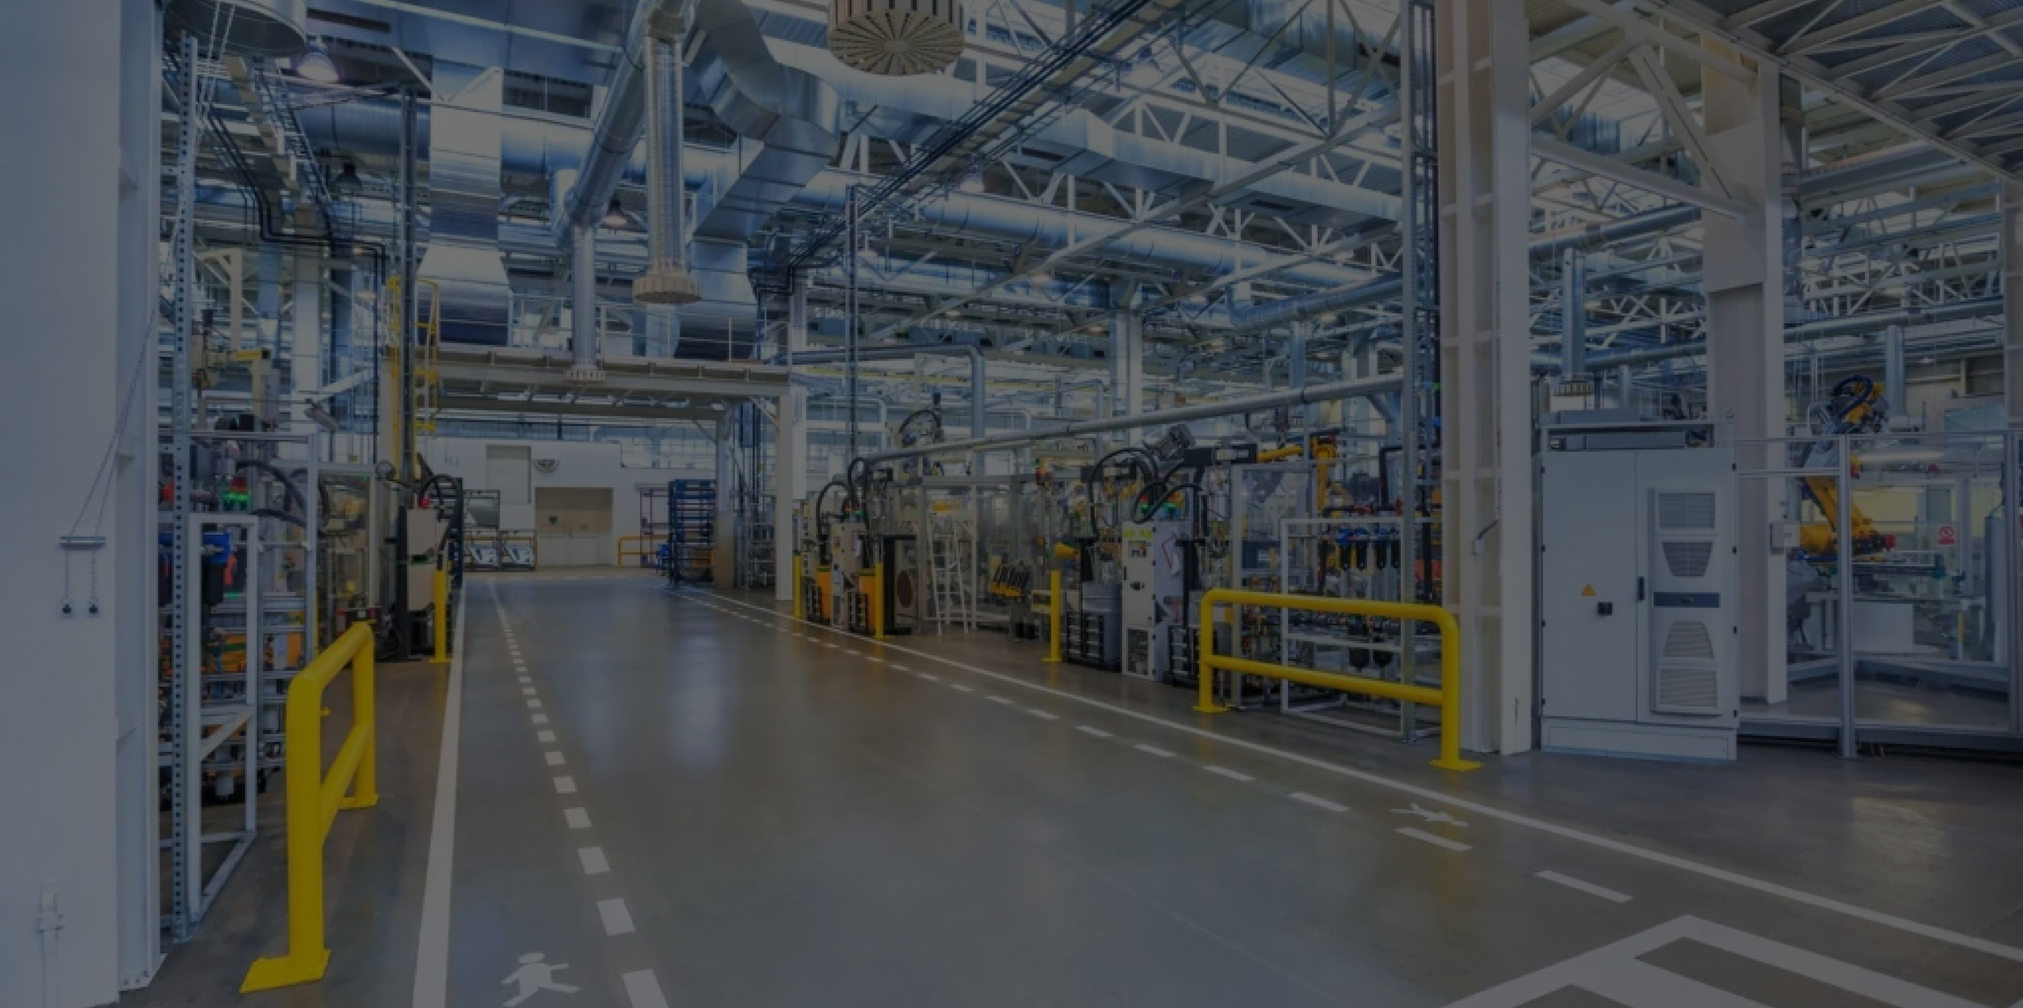
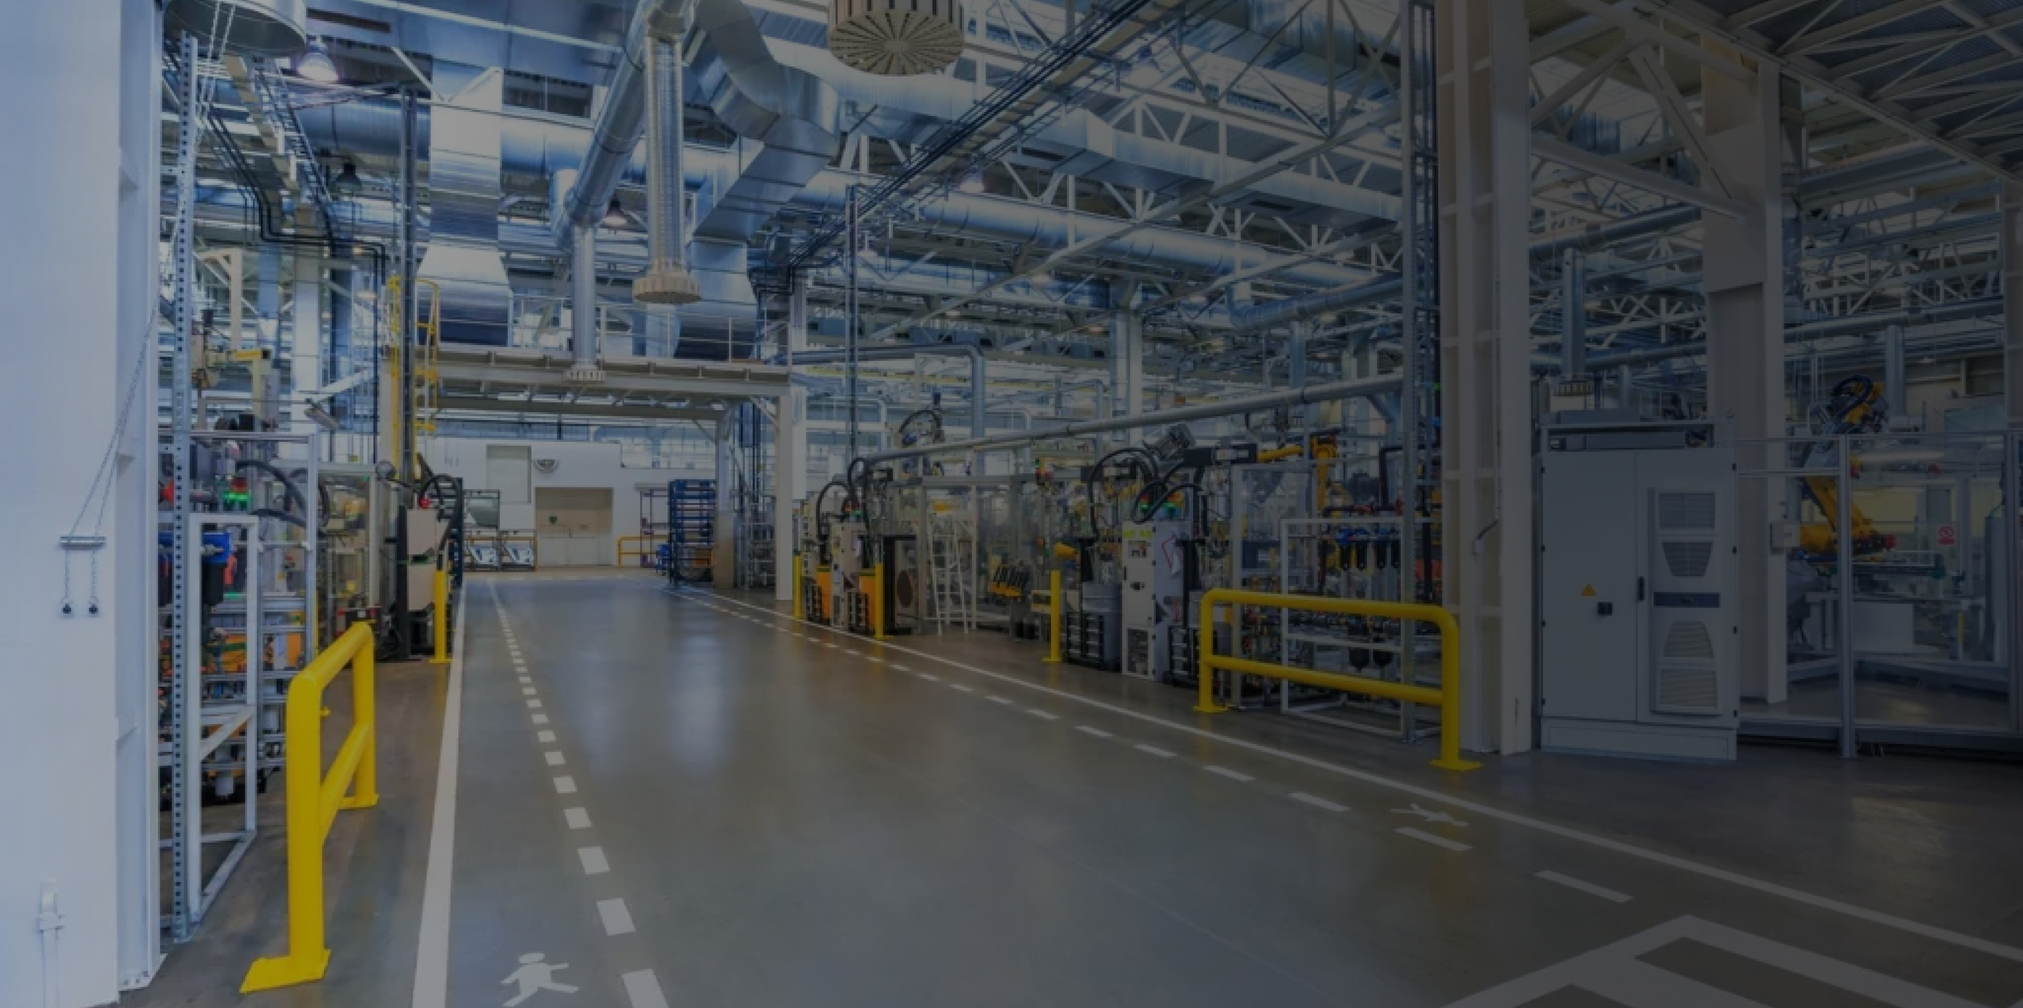
Product engineering services converted in to dynamic code, Our Product Engineering Capabilities section set as per discussed

diff --git a/src/components/_home/ServicesSwiperSlider.tsx b/src/components/_home/ServicesSwiperSlider.tsx
@@ -2,64 +2,76 @@
 import { useState, useEffect } from "react";
 import { useMediaQuery } from "react-responsive";
 // images
-import slideOneDesktop from "@/src/assets/images/service-one.jpg";
-import slideTwoDesktop from "@/src/assets/images/service-three.jpg";
-import slideThreeDesktop from "@/src/assets/images/service-two.jpg";
-
-import slideOneMobile from "@/src/assets/images/service-mob-one.jpg";
-import slideTwoMobile from "@/src/assets/images/service-mob-two.jpg";
-import slideThreeMobile from "@/src/assets/images/service-mob-three.jpg";
+import slideOneDesktop from "@/src/assets/images/machine-controller.png";
+import slideTwoDesktop from "@/src/assets/images/custom-instruments-electronics.png";
+import slideThreeDesktop from "@/src/assets/images/industrial-wireless-communication.png";
 
 import Image from "next/image";
 
 const desktopImages = [
-  { slideImg: slideOneDesktop },
-  { slideImg: slideTwoDesktop },
-  { slideImg: slideThreeDesktop },
-];
-
-const mobileImages = [
-  { slideImg: slideOneMobile },
-  { slideImg: slideTwoMobile },
-  { slideImg: slideThreeMobile },
+  {
+    slideImg: slideOneDesktop,
+    slideTitle: <>Custom embedded <br/>machine controllers</>,
+    slidePoints: [
+      { listPoint: <>Parameter Measurement</> },
+      { listPoint: <>Data Logging</> },
+      { listPoint: <>M2M Communication</> },
+      { listPoint: <>Actuation Control</> },
+      { listPoint: <>Sensor Interfacing</> },
+      { listPoint: <>SCADA Integration</> },
+    ]
+  },
+  {
+    slideImg: slideTwoDesktop,
+    slideTitle: <>Custom <br/>Instrumentation <br/>Electronics</>,
+    slidePoints: [
+      { listPoint: <>Cellular & Cloud Connectivity </> },
+      { listPoint: <>Star, P2P & Mesh<br/>Networking</> },
+      { listPoint: <>SubGHz Medium to Long <br/>Range Communication</> },
+      { listPoint: <>IoT Connectivity<br />Signal Processing</> },
+    ]
+  },
+  {
+    slideImg: slideThreeDesktop,
+    slideTitle: <>Industrial IOT & Wireless <br/>Communication <br/>equipment</>,
+    slidePoints: [
+      { listPoint: <>User-Machine and<br />Peripherals Interfacing</> },
+      { listPoint: <>Data Logging</> },
+      { listPoint: <>On-board Processing</> },
+      { listPoint: <>IoT Connectivity<br />Signal Processing</> },
+    ]
+  },
 ];
 
 export default function CircularSlider() {
   const [activeIndex, setActiveIndex] = useState(0);
-  const [isClient, setIsClient] = useState(false);
-
-  useEffect(() => {
-    setIsClient(true);
-  }, []);
-
-  const isMobile = useMediaQuery({ query: "(max-width: 767px)" });
-
-  const images = isClient && isMobile ? mobileImages : desktopImages;
-
+  
+  // Automatically change the active slide every 4 seconds
   useEffect(() => {
     const interval = setInterval(() => {
-      setActiveIndex((prevIndex) => (prevIndex + 1) % images.length);
+      setActiveIndex((prevIndex) => (prevIndex + 1) % desktopImages.length);
     }, 4000);
-
+    
     return () => clearInterval(interval);
-  }, [images.length]);
+  }, []);
 
+  // Handle manual navigation through dots
   const handleDotClick = (index: number) => {
     setActiveIndex(index);
   };
 
   return (
-    <div className="flex flex-col justify-center items-center relative w-full m-auto overflow-hidden 2xl:h-[590px] xl:h-[445px] lg:h-[397px] md:h-[330px] sm:h-[870px] max-[639px]:h-[560px] max-[450px]:h-[410px]">
-      <div className={`relative flex w-full h-full`}>
-        {images.map((image, index) => {
-          const position =
-            (index - activeIndex + images.length) % images.length;
+    <div className="flex flex-col justify-center items-center relative w-full m-auto overflow-hidden 2xl:h-[590px] xl:h-[510px] lg:h-[415px] md:h-[375px] sm:h-[780px] max-[639px]:h-[630px]">
+      <div className="relative flex w-full h-full">
+        {desktopImages.map((image, index) => {
+         const position =
+            (index - activeIndex + desktopImages.length) % desktopImages.length;
 
           let style: React.CSSProperties = {
             left: "50%",
             transform: "translateX(-50%)",
           };
-
+          
           if (position === 0) {
             style = {
               left: "50%",
@@ -74,7 +86,7 @@ export default function CircularSlider() {
               filter: "blur(7.7px)",
               zIndex: 5,
             };
-          } else if (position === images.length - 1) {
+          } else if (position === desktopImages.length - 1) {
             style = {
               left: "0%",
               transform: "translateX(-8%) scale(0.8)",
@@ -91,25 +103,33 @@ export default function CircularSlider() {
           }
 
           return (
-            <div key={index}>
-              <Image
-                src={image.slideImg}
-                alt={`Slide ${index + 1}`}
-                className="absolute transition-all duration-500 2xl:rounded-[24px] xl:rounded-[18px] md:rounded-[16px] rounded-[18.45px] 2xl:max-w-[1085px] xl:max-w-[815px] lg:max-w-[725px] md:max-w-[615px] sm:max-w-[505px] max-[639px]:max-w-[320px] max-[450px]:max-w-[230px]"
-                style={style}
-                onClick={() => handleDotClick(index)}
-              />
+            <div key={index} style={style} className="absolute transition-all duration-500 2xl:max-w-[1085px] xl:max-w-[815px] lg:max-w-[725px] md:max-w-[615px] sm:max-w-[505px] max-[639px]:max-w-[320px] max-[450px]:max-w-[calc(100%_-_60px)] w-full">
+              <div className="2xl:rounded-[24px] xl:rounded-[18px] md:rounded-[16px] rounded-[18.45px] bg-no-repeat bg-cover md:bg-[url('../images/swipe-slide-bg.jpg')] bg-[url('../images/swipe-slide-mob-bg.jpg')] mx-auto 2xl:py-[74px] xl:py-[55px] md:py-[30px] py-[30px] 2xl:ps-[60px] xl:ps-[50px] lg:ps-[25px] ps-[20px] 2xl:pe-[70px] xl:pe-[60px] lg:pe-[30px] pe-[20px] flex items-center justify-between md:flex-nowrap flex-wrap max-[767px]:h-[734px] max-[639px]:h-[600px]">
+                <div className="2xl:w-[395.81px] xl:w-[330px] lg:w-[360px] md:w-[315px] w-full">
+                  <h3 className="font-bold 2xl:text-[32.54px] xl:text-[24px] lg:text-[22.5px] text-[20px] text-white">
+                    {image.slideTitle}
+                  </h3>
+                  <ul className="list-disc list-outside 2xl:ps-4 xl:ps-3.5 md:ps-3 ps-3.5 2xl:pt-[23px] xl:pt-[18px] lg:pt-[15px] pt-[12.5px] text-white 2xl:text-base xl:text-[14px] lg:text-[13px] md:text-[12.5px] gap-2 flex flex-col max-[767px]:[&_br]:hidden">
+                    {(image.slidePoints || []).map((item, subindex) => (
+                      <li key={subindex}>
+                        {item.listPoint}
+                      </li>
+                    ))}
+                  </ul>
+                </div>
+                <div className="md:pt-0 2xl:w-[calc(100%_-_395.81px)] xl:w-[calc(100%_-_330px)] lg:w-[calc(100%_-_360px)] md:w-[calc(100%_-_315px)] pt-[23px] 2xl:h-[402px] xl:h-[363px] lg:h-[300px] md:h-[260px] flex items-center">
+                  <Image src={image.slideImg} alt="" />
+                </div>
+              </div>
             </div>
           );
         })}
       </div>
       <div className="flex justify-center items-center 2xl:gap-[8px] xl:gap-[6px] md:gap-[5.33px] gap-[8px]">
-        {images.map((_, index) => (
+        {desktopImages.map((_, index) => (
           <button
             key={index}
-            className={`2xl:w-[48px] 2xl:h-[6px] xl:w-[36px] xl:h-[4.5px] md:w-[32px] md:h-[4px] w-[48px] h-[6px] rounded-full ${
-              index === activeIndex ? "bg-[#3563E9]" : "bg-gray-300"
-            }`}
+            className={`2xl:w-[48px] 2xl:h-[6px] xl:w-[36px] xl:h-[4.5px] md:w-[32px] md:h-[4px] w-[48px] h-[6px] rounded-full ${index === activeIndex ? "bg-[#3563E9]" : "bg-gray-300"}`}
             onClick={() => handleDotClick(index)}
             aria-label={`Go to slide ${index + 1}`}
           />

diff --git a/src/components/_home/ProductSlider.tsx b/src/components/_home/ProductSlider.tsx
@@ -47,7 +47,27 @@ const ProductSlider: React.FC<ProductSliderProps> = ({productCardData}) => {
     };
   return (
     <>  
-        <SlickSlider className='[&>.slick-list>.slick-track]:flex 2xl:[&>.slick-list>.slick-track]:gap-[15px] lg:[&>.slick-list>.slick-track]:gap-[11px] [&>.slick-list>.slick-track]:gap-[10px] 2xl:[&_.slick-slide_div:nth-child(2)]:mt-2 xl:[&_.slick-slide_div:nth-child(2)]:mt-1.5 [&>.slick-arrow]:before:hidden [&>.slick-arrow]:2xl:w-[81.46px] [&>.slick-arrow]:xl:w-[60px] [&>.slick-arrow]:md:w-[54.3px] [&>.slick-arrow]:w-[81.46px] [&>.slick-arrow]:2xl:h-[35.71px] [&>.slick-arrow]:xl:h-[26.78px] [&>.slick-arrow]:md:h-[23.8px] [&>.slick-arrow]:h-[35.71px] [&>.slick-arrow.slick-disabled]:bg-[#E2E2E2] [&>.slick-arrow]:rounded-full [&>.slick-arrow]:bg-center [&>.slick-arrow]:bg-no-repeat [&>.slick-arrow]:bg-[#3563E9] [&>.slick-arrow]:absolute [&>.slick-arrow]:md:!left-[initial] [&>.slick-arrow]:2xl:!right-[72px] [&>.slick-arrow]:xl:!right-[54px] [&>.slick-arrow]:lg:!right-[48px] [&>.slick-arrow]:!right-[5px] max-[767px]:[&>.slick-arrow]:z-[2] max-[767px]:[&>.slick-arrow]:top-[-58px] [&>.slick-arrow]:2xl:top-[16px] [&>.slick-arrow]:lg:top-[12px] [&>.slick-arrow]:md:top-[6px] [&>.slick-arrow]:top-0 [&>.slick-prev]:2xl:!right-[165px] [&>.slick-prev]:xl:!right-[123px] [&>.slick-prev]:lg:!right-[111px] [&>.slick-prev]:md:!right-[82px] [&>.slick-prev]:!right-[initial] [&>.slick-prev]:max-[767px]:!left-[8px] !position-initial [&>.slick-arrow]:!translate-x-0 [&>.slick-arrow]:!translate-y-0 [&>.slick-prev]:bg-[url(../images/long-prev.svg)] [&>.slick-prev.slick-disabled]:bg-[url(../images/long-prev-dark.svg)] [&>.slick-next]:bg-[url(../images/long-next.svg)] [&>.slick-next.slick-disabled]:bg-[url(../images/long-next-dark.svg)] [&>.slick-arrow]:max-[1535px]:bg-24 [&>.slick-arrow]:max-[1279px]:bg-21 [&>.slick-arrow]:max-[767px]:bg-32 max-[767px]:mt-[24px] max-[767px]:max-w-[460px] max-[767px]:!relative max-[767px]:mx-auto max-[480px]:max-w-[calc(100%_-_20px)]' {...settings}>
+
+        <div className='md:grid hidden grid-cols-4 2xl:px-[72px] xl:px-[54px] px-[20px] lg:gap-[18px] gap-[10px]'>
+            {productCardData.map((data, index) => (
+                <div key={index} className='group relative 2xl:rounded-[16px] xl:rounded-[12px] lg:px-[48px]rounded-[10px] rounded-[14px] overflow-hidden'>
+                    <Image className='w-full transition-all duration-500 group-hover:blur-[3.5px]' src={data.productImg} alt='' />
+                    <div className='absolute left-0 right-0 top-0 bottom-0 2xl:p-[32px] xl:p-[24px] p-[15px] flex flex-col justify-between z-[1]'>
+                        <div className='text-white'>
+                            <h5 className='2xl:text-[24px] lg:text-[18px] text-base font-bold'>
+                                {data.title}
+                            </h5>
+                            <p className='2xl:pt-[14px] lg:pt-[11px] pt-[10px] 2xl:text-[16px] lg:text-[12px] text-[11px]'>{data.smallTitle}</p>
+                        </div>
+                        <div>
+                            <Link href={data.cardLink}><Image className='2xl:w-[25px] xl:w-[19px] w-[17px]' src={data.arrowImg} alt='' /></Link>
+                        </div>
+                    </div>
+                </div>
+            ))}
+        </div>
+
+        <SlickSlider className='md:hidden flex [&>.slick-list>.slick-track]:flex 2xl:[&>.slick-list>.slick-track]:gap-[15px] lg:[&>.slick-list>.slick-track]:gap-[11px] [&>.slick-list>.slick-track]:gap-[10px] 2xl:[&_.slick-slide_div:nth-child(2)]:mt-2 xl:[&_.slick-slide_div:nth-child(2)]:mt-1.5 [&>.slick-arrow]:before:hidden [&>.slick-arrow]:2xl:w-[81.46px] [&>.slick-arrow]:xl:w-[60px] [&>.slick-arrow]:md:w-[54.3px] [&>.slick-arrow]:w-[81.46px] [&>.slick-arrow]:2xl:h-[35.71px] [&>.slick-arrow]:xl:h-[26.78px] [&>.slick-arrow]:md:h-[23.8px] [&>.slick-arrow]:h-[35.71px] [&>.slick-arrow.slick-disabled]:bg-[#E2E2E2] [&>.slick-arrow]:rounded-full [&>.slick-arrow]:bg-center [&>.slick-arrow]:bg-no-repeat [&>.slick-arrow]:bg-[#3563E9] [&>.slick-arrow]:absolute [&>.slick-arrow]:md:!left-[initial] [&>.slick-arrow]:2xl:!right-[72px] [&>.slick-arrow]:xl:!right-[54px] [&>.slick-arrow]:lg:!right-[48px] [&>.slick-arrow]:!right-[5px] max-[767px]:[&>.slick-arrow]:z-[2] max-[767px]:[&>.slick-arrow]:top-[-58px] [&>.slick-arrow]:2xl:top-[16px] [&>.slick-arrow]:lg:top-[12px] [&>.slick-arrow]:md:top-[6px] [&>.slick-arrow]:top-0 [&>.slick-prev]:2xl:!right-[165px] [&>.slick-prev]:xl:!right-[123px] [&>.slick-prev]:lg:!right-[111px] [&>.slick-prev]:md:!right-[82px] [&>.slick-prev]:!right-[initial] [&>.slick-prev]:max-[767px]:!left-[8px] !position-initial [&>.slick-arrow]:!translate-x-0 [&>.slick-arrow]:!translate-y-0 [&>.slick-prev]:bg-[url(../images/long-prev.svg)] [&>.slick-prev.slick-disabled]:bg-[url(../images/long-prev-dark.svg)] [&>.slick-next]:bg-[url(../images/long-next.svg)] [&>.slick-next.slick-disabled]:bg-[url(../images/long-next-dark.svg)] [&>.slick-arrow]:max-[1535px]:bg-24 [&>.slick-arrow]:max-[1279px]:bg-21 [&>.slick-arrow]:max-[767px]:bg-32 max-[767px]:mt-[24px] max-[767px]:max-w-[460px] max-[767px]:!relative max-[767px]:mx-auto max-[480px]:max-w-[calc(100%_-_20px)]' {...settings}>
             {productCardData.map((data, index) => (
                 <div key={index} className='group relative 2xl:rounded-[16px] xl:rounded-[12px] lg:px-[48px]rounded-[10px] rounded-[14px] overflow-hidden 2xl:me-[15px]'>
                     <Image className='w-full transition-all duration-500 group-hover:blur-[3.5px]' src={data.productImg} alt='' />

diff --git a/src/components/_home/ProductEngineeringCapabilities.tsx b/src/components/_home/ProductEngineeringCapabilities.tsx
@@ -16,7 +16,7 @@ function ProductEngineeringCapabilities() {
   const productCardData = [
     {
       productImg: productOne,
-      title: "Embedded Software Design",
+      title: "Embedded Hardware Design",
       smallTitle:
         "Build and scale generative AI applications with foundation models (FMs)",
       cardLink: "/",
@@ -24,31 +24,7 @@ function ProductEngineeringCapabilities() {
     },
     {
       productImg: productTwo,
-      title: "Embedded Software Development",
-      smallTitle:
-        "Build and scale generative AI applications with foundation models (FMs)",
-      cardLink: "/",
-      arrowImg: arrowImage,
-    },
-    {
-      productImg: productThree,
-      title: "Wireless Systems Development",
-      smallTitle:
-        "Build and scale generative AI applications with foundation models (FMs)",
-      cardLink: "/",
-      arrowImg: arrowImage,
-    },
-    {
-      productImg: productFour,
-      title: "Human Machine Interface Development",
-      smallTitle:
-        "Build and scale generative AI applications with foundation models (FMs)",
-      cardLink: "/",
-      arrowImg: arrowImage,
-    },
-    {
-      productImg: productFive,
-      title: "Technology Consulting",
+      title: "Embedded Software Design",
       smallTitle:
         "Build and scale generative AI applications with foundation models (FMs)",
       cardLink: "/",
@@ -63,6 +39,22 @@ function ProductEngineeringCapabilities() {
       arrowImg: arrowImage,
     },
     {
+      productImg: productFour,
+      title: "Human Machine Interface Development",
+      smallTitle:
+        "Build and scale generative AI applications with foundation models (FMs)",
+      cardLink: "/",
+      arrowImg: arrowImage,
+    },
+    {
+      productImg: productThree,
+      title: "Wireless Systems Development",
+      smallTitle:
+        "Build and scale generative AI applications with foundation models (FMs)",
+      cardLink: "/",
+      arrowImg: arrowImage,
+    },    
+    {
       productImg: productSeven,
       title: "Manufacturing Support",
       smallTitle:
@@ -72,7 +64,15 @@ function ProductEngineeringCapabilities() {
     },
     {
       productImg: productSeven,
-      title: "Manufacturing Support",
+      title: "IoT application development",
+      smallTitle:
+        "Build and scale generative AI applications with foundation models (FMs)",
+      cardLink: "/",
+      arrowImg: arrowImage,
+    },
+    {
+      productImg: productFive,
+      title: "Technology consulting",
       smallTitle:
         "Build and scale generative AI applications with foundation models (FMs)",
       cardLink: "/",
@@ -89,7 +89,7 @@ function ProductEngineeringCapabilities() {
                 Our Product Engineering Capabilities
               </h2>
             </div>
-            <div className="2xl:pt-[45px] xl:pt-[30px] pt-[25px] max-[767px]:relative max-[767px]:mt-[40px]">
+            <div className="2xl:pt-[45px] xl:pt-[30px] pt-[25px] max-[767px]:pt-4 max-[767px]:relative max-[767px]:mt-[0px]">
               <ProductSlider productCardData={productCardData} />
             </div>
           </div>

diff --git a/src/components/_home/EngineeringServices.tsx b/src/components/_home/EngineeringServices.tsx
@@ -1,11 +1,12 @@
 import React from "react";
 import ServicesSwiperSlider from "./ServicesSwiperSlider";
+import Image from "next/image";
 
 function EngineeringServices() {
   return (
     <>
       <section>
-        <div className="bg-[#EEF1F5] 2xl:py-[80px] xl:py-[75px] lg:py-[66px] py-[100px]">
+        <div className="bg-[#EEF1F5] 2xl:py-[80px] xl:py-[75px] lg:py-[66px] py-[100px] max-[767px]:pb-[40px]">
           <div className="2xl:pb-[40px] xl:pb-[52px] lg:pb-[45px] pb-[40px]">
             <h2 className="text-center text-[#1D3157] 2xl:text-[62px] xl:text-[47px] lg:text-[41px] text-[24px] font-bold capitalize">
               Product engineering services
@@ -17,7 +18,7 @@ function EngineeringServices() {
                 Product Categories
               </h3>
             </div>
-            <div className="2xl:pt-[40px] relative xl:pt-[45px] pt-[40px] flex justify-center items-center 2xl:max-w-[1475px] xl:max-w-[1115px] lg:max-w-[992px] md:max-w-[740px] sm:max-w-[600px] max-[639px]:max-w-[430px] max-[450px]:max-w-[290px] mx-auto w-full [&>.service-slide]:blur-[7.7px] [&>.service-slide]:min-w-[860px] [&>.service-slide.active-service]:blur-0 [&>.service-slide.active-service]:w-[1085px] [&>.service-slide.active-service]:absolute [&>.service-slide.active-service]:left-0 [&>.service-slide.active-service]:right-0 [&>.service-slide.active-service]:mx-auto [&>.service-slide.active-service]:z-[1]">
+            <div className="2xl:pt-[40px] relative xl:pt-[45px] pt-[40px] flex justify-center items-center 2xl:max-w-[1475px] xl:max-w-[1115px] lg:max-w-[992px] md:max-w-[740px] sm:max-w-[600px] max-[639px]:max-w-[430px] max-[450px]:max-w-[calc(100%_-_50px)] mx-auto w-full [&>.service-slide]:blur-[7.7px] [&>.service-slide]:min-w-[860px] [&>.service-slide.active-service]:blur-0 [&>.service-slide.active-service]:w-[1085px] [&>.service-slide.active-service]:absolute [&>.service-slide.active-service]:left-0 [&>.service-slide.active-service]:right-0 [&>.service-slide.active-service]:mx-auto [&>.service-slide.active-service]:z-[1]">
               <ServicesSwiperSlider />
             </div>
           </div>

diff --git a/src/app/blogs/mastering-chatgpt/_components/PageBanner.tsx b/src/app/blogs/mastering-chatgpt/_components/PageBanner.tsx
@@ -12,11 +12,9 @@ function PageBanner() {
           <div className="2xl:py-[260px] xl:py-[195px] flex items-center justify-center md:py-[173px] py-[185px] 2xl:px-[72px] xl:px-[54px] lg:px-[48px] px-[20px] absolute left-0 top-0 w-full h-full">
             <div className="flex justify-center text-white flex-col text-center gap-4">
               <div className="flex justify-center">
-              <div className="flex">
-              <div className="bg-[rgba(161,196,255,0.32)] flex gap-4 font-medium 2xl:text-[20.74px] xl:text-[18px] text-base py-[10.5px] rounded-full xl:px-[20px]"> <span className="flex w-[23.7px] h-[23.7px] rounded-full bg-[#3464FC]"></span><span>Artificial Intelligence</span></div>
+              <div className="bg-[rgba(161,196,255,0.32)] flex items-center 2xl:gap-4 lg:gap-2 gap-1.5 font-medium 2xl:text-[20.74px] xl:text-[18px] text-base 2xl:py-[10.5px] xl:py-[8px] py-[7px] rounded-full 2xl:px-[20px] xl:px-[17px] md:px-[15px] px-[12px]"> <span className="flex xl:w-[23.7px] lg:w-[16px] w-[14px] xl:h-[23.7px] lg:h-[16px] h-[14px] rounded-full bg-[#3464FC]"></span><span>Artificial Intelligence</span></div>
               </div>
-              </div>
-              <h1 className="2xl:text-[40px] xl:text-[32px] lg:text-[23px] text-[20px] font-semibold 2xl:max-w-[960px]">Mastering ChatGPT Blog Creation: Dos and Don'ts for SaaS Marketing Managers</h1>
+              <h1 className="2xl:text-[40px] xl:text-[32px] lg:text-[23px] text-[20px] font-semibold 2xl:max-w-[960px] xl:max-w-[750px] lg:max-w-[520px] max-w-[420px]">Mastering ChatGPT Blog Creation: Dos and Don'ts for SaaS Marketing Managers</h1>
               <div className="mx-auto 2xl:text-[20.72px] xl:text-[15.54px] text-[14px]">
               <ul className="flex items-center gap-4">
                 <li>

diff --git a/src/components/_home/Slider.tsx b/src/components/_home/Slider.tsx
@@ -122,7 +122,7 @@ const Slider: React.FC = () => {
             ))}
           </ul>
         </div>
-        <div className="bg-image max-[767px]:after:hidden after:absolute after:left-0 after:top-0 after:bottom-0 after:right-0 after:bg-gradient-to-r after:from-[rgba(0,0,0,0.7)] after:to-[rgba(0,0,0,0)] max-[991px]:h-[600px] max-[767px]:h-auto max-[991px]:[&>img]:h-full max-[991px]:[&>img]:object-cover">
+        <div className="bg-image max-[767px]:after:hidden after:absolute after:left-0 after:top-0 after:bottom-0 after:right-0 after:bg-gradient-to-r after:from-[rgba(0,0,0,0.57)] after:to-[rgba(0,0,0,0)] max-[991px]:h-[600px] max-[767px]:h-auto max-[991px]:[&>img]:h-full max-[991px]:[&>img]:object-cover">
           <Image className="md:flex hidden" src={staticBgImage} alt="" />
           <Image
             className="md:hidden flex w-full"
